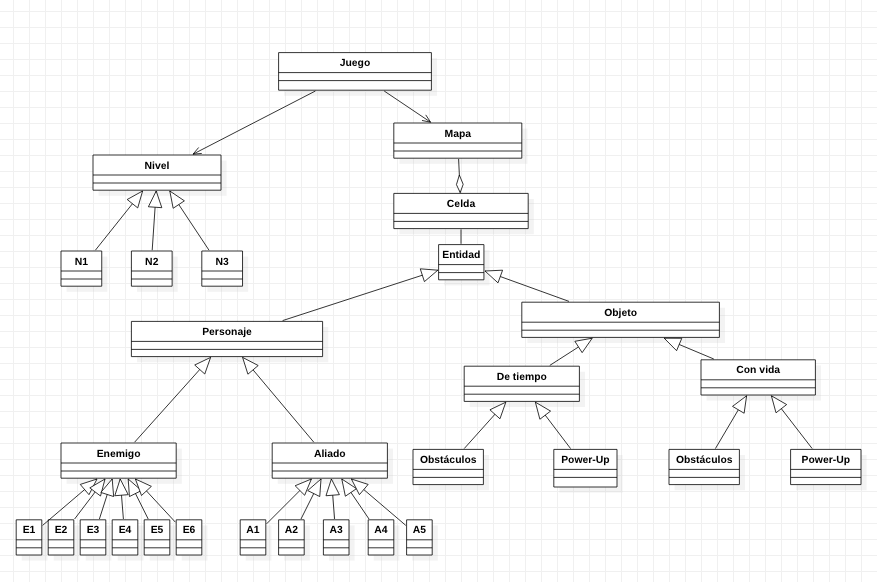
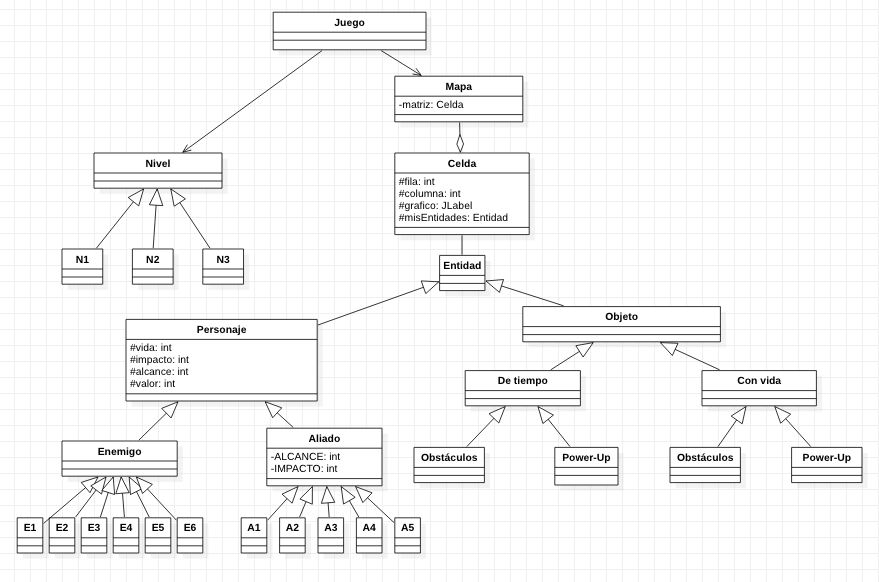
Aliados & UML update

diff --git a/src/Entidad/Cap_America.java b/src/Entidad/Cap_America.java
@@ -2,11 +2,11 @@ package Entidad;
 
 public class Cap_America extends Aliado {
 
-	private static final int ALCANCE_CAP = 1, IMPACTO_CAP = 20;
+	private static final int ALCANCE = 1, IMPACTO = 20;
 
 	public Cap_America() {
 		vida = MAX_VIDA;
-		alcance = ALCANCE_CAP;
-		impacto = IMPACTO_CAP;
+		alcance = ALCANCE;
+		impacto = IMPACTO;
 	}
 }

diff --git a/src/Entidad/Thor.java b/src/Entidad/Thor.java
@@ -2,11 +2,11 @@ package Entidad;
 
 public class Thor extends Aliado {
 
-	private static final int ALCANCE_THOR = 1, IMPACTO_THOR = 20;
+	private static final int ALCANCE = 1, IMPACTO = 20;
 
 	public Thor() {
 		vida = MAX_VIDA;
-		alcance = ALCANCE_THOR;
-		impacto = IMPACTO_THOR;
+		alcance = ALCANCE;
+		impacto = IMPACTO;
 	}
 }

diff --git a/src/Entidad/DrStrange.java b/src/Entidad/DrStrange.java
@@ -2,11 +2,11 @@ package Entidad;
 
 public class DrStrange extends Aliado {
 
-	private static final int ALCANCE_DRS=1,IMPACTO_DRS=20;
+	private static final int ALCANCE=1,IMPACTO=20;
 	
 	public DrStrange() {
 		vida = MAX_VIDA;
-		alcance = ALCANCE_DRS;
-		impacto = IMPACTO_DRS;
+		alcance = ALCANCE;
+		impacto = IMPACTO;
 	}
 }

diff --git a/src/Entidad/Hulk.java b/src/Entidad/Hulk.java
@@ -2,11 +2,11 @@ package Entidad;
 
 public class Hulk extends Aliado {
 
-	private static final int ALCANCE_HULK=1,IMPACTO_HULK=20;
+	private static final int ALCANCE=1,IMPACTO=20;
 	
 	public Hulk() {
 		vida = MAX_VIDA;
-		alcance = ALCANCE_HULK;
-		impacto = IMPACTO_HULK;
+		alcance = ALCANCE;
+		impacto = IMPACTO;
 	}
 }

diff --git a/src/Entidad/IronMan.java b/src/Entidad/IronMan.java
@@ -2,11 +2,11 @@ package Entidad;
 
 public class IronMan extends Aliado {
 
-	private static final int ALCANCE_IM=1,IMPACTO_IM=20;
+	private static final int ALCANCE=1,IMPACTO=20;
 	
 	public IronMan() {
 		vida = MAX_VIDA;
-		alcance = ALCANCE_IM;
-		impacto = IMPACTO_IM;
+		alcance = ALCANCE;
+		impacto = IMPACTO;
 	}
 }

diff --git a/src/Mapa/Celda.java b/src/Mapa/Celda.java
@@ -1,7 +1,6 @@
 package Mapa;
 
 import javax.swing.JLabel;
-
 import Entidad.Entidad;
 
 public class Celda {
